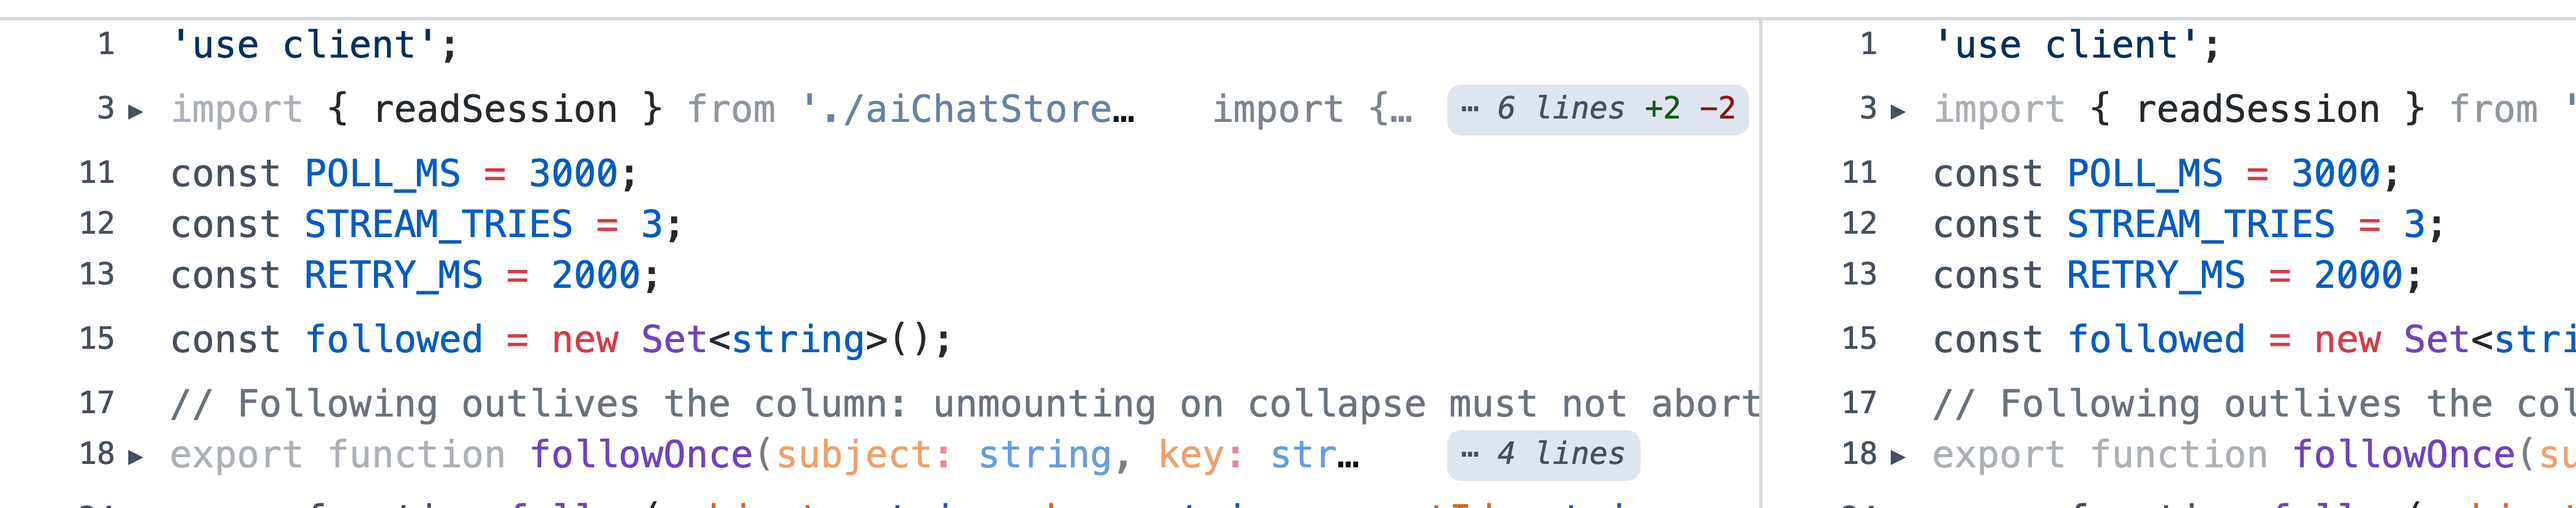
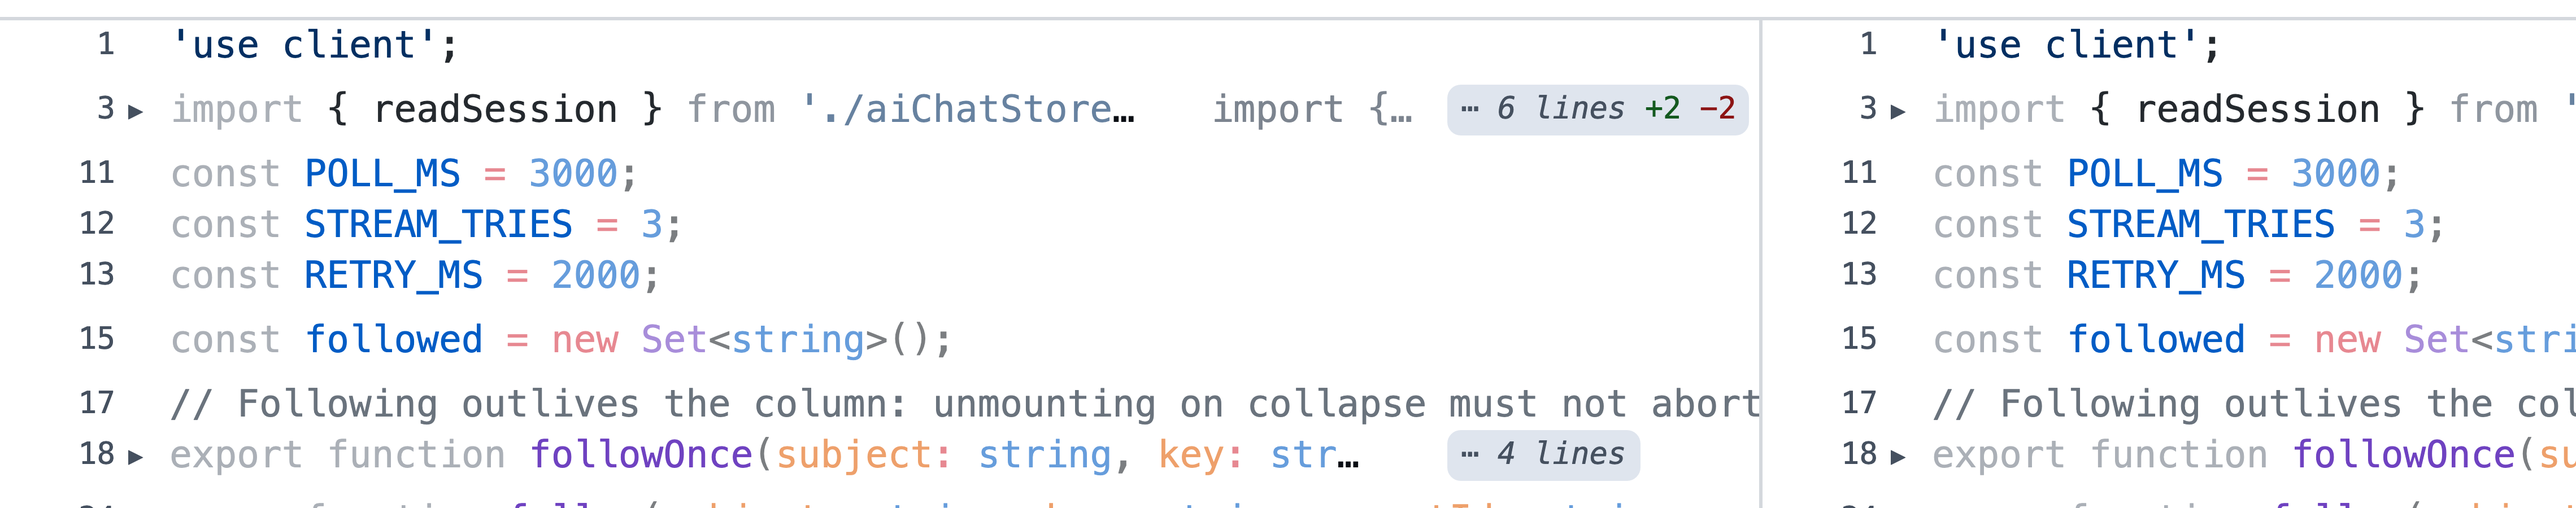
Dim keywords on every line while folds are collapsed
The fade no longer waits for a fold anchor: in the folding modes that
collapse anything, every visible line drops its keywords to 0.45 and its
tail to 0.6. Expand-all and git-default render at full strength.

diff --git a/src/features/pull-requests/DiffSide.tsx b/src/features/pull-requests/DiffSide.tsx
@@ -6,6 +6,7 @@ import { codeSegments } from './codeSegments';
 import { dimAroundName } from './foldDimming';
 import { collapsedPreview } from './collapsedPreview';
 import { diffEditModeOn } from './editModeStore';
+import { foldsCollapsed, useFoldCommand } from './foldModeStore';
 import type { DiffLine } from './diffLines';
 import type { ThemedToken } from './diffHighlight';
 import type { CharRange, IntralineRanges } from './intralineDiff';
@@ -84,6 +85,7 @@ function DiffLines({
   spacer,
   onCodePress,
 }: SideProps & { from: number; to: number }) {
+  const dim = foldsCollapsed(useFoldCommand().mode);
   if (from >= to) return null;
   const spacerLine = spacer ? lastLineOfRow(lines, spacer.afterRow) : -1;
   const rowsWithRightLine = rowsShownOnRight(lines);
@@ -103,6 +105,7 @@ function DiffLines({
                 ranges={rangesFor(emphasis[line.row], line.side)}
                 expand={expand}
                 anchor={anchor}
+                dim={dim}
                 editable={editable}
                 onEdit={editStarter(rows, line.row, onEditBlock)}
                 onCodePress={onCodePress}
@@ -153,6 +156,7 @@ function DiffLineView({
   expand,
   anchor,
   preview,
+  dim,
   editable,
   onEdit,
   onCodePress,
@@ -164,6 +168,7 @@ function DiffLineView({
   ranges: CharRange[] | null;
   expand: HunkControl;
   anchor: CollapseAnchor | null;
+  dim: boolean;
   editable?: boolean;
   onEdit?: () => void;
   onCodePress?: CodePress;
@@ -189,7 +194,7 @@ function DiffLineView({
           className={folded ? `${CODE} min-w-0 overflow-hidden text-ellipsis` : CODE}
           onClick={onCodePress ? (event) => onCodePress(line, event) : undefined}
         >
-          {(folded ? dimAroundName(segments, lineTokens) : segments).map((segment, index) => (
+          {(dim ? dimAroundName(segments, lineTokens) : segments).map((segment, index) => (
             <span
               key={index}
               className={segment.emphasized ? emphasisTone(side) : undefined}

diff --git a/src/features/pull-requests/useCodeCollapse.ts b/src/features/pull-requests/useCodeCollapse.ts
@@ -4,7 +4,7 @@ import { useCallback, useEffect, useMemo, useState } from 'react';
 import { collapseRegions, type CollapseRegion } from './collapseRegions';
 import { rowOf } from './commentAnchors';
 import type { EditableBlock } from './editableBlocks';
-import { useFoldCommand, type FoldMode } from './foldModeStore';
+import { foldsCollapsed, useFoldCommand, type FoldMode } from './foldModeStore';
 import { allLinesDeleted, innerRows } from './foldSpan';
 import type { ReviewThread } from './reviewThreads';
 import type { DiffRow } from './splitDiff';
@@ -131,7 +131,7 @@ function regionOverlapsEdit(region: CollapseRegion, edit: EditableBlock | null):
 }
 
 function modeCollapsed(region: CollapseRegion, hiddenThreads: number, mode: FoldMode, allDeleted: boolean): boolean {
-  if (mode === 'expandAll' || mode === 'gitDefault') return false;
+  if (!foldsCollapsed(mode)) return false;
   if (mode === 'collapseAll') return true;
   return hiddenThreads === 0 && (allDeleted || region.imports || unchangedRegion(region));
 }

diff --git a/src/features/pull-requests/foldModeStore.ts b/src/features/pull-requests/foldModeStore.ts
@@ -21,6 +21,10 @@ export function useFoldCommand(): FoldCommand {
   return usePref(foldCommand);
 }
 
+export function foldsCollapsed(mode: FoldMode): boolean {
+  return mode !== 'expandAll' && mode !== 'gitDefault';
+}
+
 export function wholeFileFor(mode: FoldMode): boolean | null {
   if (mode === 'default') return true;
   if (mode === 'gitDefault') return false;
